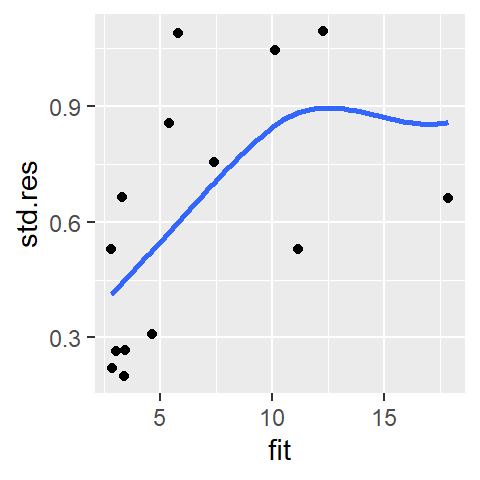
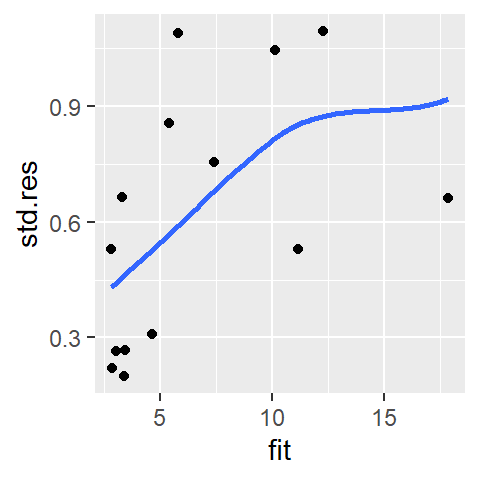
small edits

Changed region(s): [[0.375, 0.1875, 0.9375, 0.4688], [0.2188, 0.5312, 0.3125, 0.625], [0.3438, 0.4688, 0.375, 0.5]]

diff --git a/docs/bivariate.html b/docs/bivariate.html
@@ -606,7 +606,7 @@ y = 2.87 - 0.012 x + 0.000839 x^2
 <p>Non-parametric fit applies to the family of fitting strategies that <em>do not</em> impose a structure on the data. Instead, they are designed to let the dataset reveal its inherent structure. One explored in this course is the <em>loess</em> fit.</p>
 <section id="loess" class="level4" data-number="24.2.2.1">
 <h4 data-number="24.2.2.1" class="anchored" data-anchor-id="loess"><span class="header-section-number">24.2.2.1</span> Loess</h4>
-<p>A flexible curve fitting option is the <strong>loess</strong> curve (short for <strong>lo</strong>cal regr<strong>ess</strong>ion; also known as the <em>local weighted regression</em>). Unlike the parametric approach to fitting a curve, the loess does <strong>not</strong> impose a structure on the data. The loess curve fits small segments of a regression lines across the range of x-values, then links the mid-points of these regression lines to generate the <em>smooth</em> curve. The range of x-values that contribute to each localized regression lines is defined by the <span class="math inline">\(\alpha\)</span> parameter which usually ranges from 0.2 to 1. The larger the <span class="math inline">\(\alpha\)</span> value, the smoother the curve. The other parameter that defines a loess curve is <span class="math inline">\(\lambda\)</span>: it defines the polynomial order of the localized regression line. This is usually set to 1 (though <code>ggplot2</code>’s implementation of the loess defaults to a 2<sup>nd</sup> order polynomial).</p>
+<p>A flexible curve fitting option is the <strong>loess</strong> curve (short for <strong>lo</strong>cal regr<strong>ess</strong>ion; also known as the <em>local weighted regression</em>). Unlike the parametric approach to fitting a curve, the loess does <strong>not</strong> impose a structure on the data. The loess curve fits small segments of a regression lines across the range of x-values, then links the mid-points of these regression lines to generate the <em>smooth</em> curve. The range of x-values that contribute to each localized regression lines is defined by the <strong>span</strong> parameter, <span class="math inline">\(\alpha\)</span>, which usually ranges from 0.2 to 1 (but, it can be greater than 1 for smaller datasets). The larger the <span class="math inline">\(\alpha\)</span> value, the smoother the curve. The other parameter that defines a loess curve is <span class="math inline">\(\lambda\)</span>: it defines the <strong>polynomial order</strong> of the localized regression line. This is usually set to 1 (though <code>ggplot2</code>’s implementation of the loess defaults to a 2<sup>nd</sup> order polynomial).</p>
 </section>
 <section id="how-a-loess-is-constructed" class="level4" data-number="24.2.2.2">
 <h4 data-number="24.2.2.2" class="anchored" data-anchor-id="how-a-loess-is-constructed"><span class="header-section-number">24.2.2.2</span> How a loess is constructed</h4>
@@ -703,7 +703,7 @@ y = 2.87 - 0.012 x + 0.000839 x^2
 <p><img src="bivariate_files/figure-html/unnamed-chunk-21-1.png" class="img-fluid" width="240"></p>
 </div>
 </div>
-<p>We are interested in identifying any pattern in the residuals. If the model does a good job in fitting the data, the points should be uniformly distributed across the plot and the loess fit should approximate a horizontal line. With the linear model <code>M</code>, we observe a convex pattern in the residuals suggesting that the linear model is not a good fit. We say that the residuals show <em>dependence</em> on the x values.</p>
+<p>We are interested in identifying any pattern in the residuals. <strong>If the model does a good job in fitting the data, the points should be uniformly distributed across the plot</strong> and the loess fit should approximate a horizontal line. With the linear model <code>M</code>, we observe a convex pattern in the residuals suggesting that the linear model is not a good fit. We say that the residuals show <em>dependence</em> on the x values.</p>
 <p>Next, we’ll look at the residuals from the second order polynomial model <code>M2</code>.</p>
 <div class="cell" data-small.mar="true" data-hash="bivariate_cache/html/unnamed-chunk-22_fb96e1aa15975b174d62d20b9081d5bb">
 <div class="sourceCode cell-code" id="cb18"><pre class="sourceCode r code-with-copy"><code class="sourceCode r"><span id="cb18-1"><a href="#cb18-1" aria-hidden="true" tabindex="-1"></a>df<span class="sc">$</span>residuals2 <span class="ot">&lt;-</span> <span class="fu">residuals</span>(M2)</span>
@@ -735,7 +735,7 @@ Y = a + bx + \varepsilon
 </section>
 <section id="spread-location-plot" class="level3" data-number="24.3.2">
 <h3 data-number="24.3.2" class="anchored" data-anchor-id="spread-location-plot"><span class="header-section-number">24.3.2</span> Spread-location plot</h3>
-<p>The <code>M2</code> and <code>lo</code> models do a good job in eliminating any dependence between residual and x-value. Next, we will check that the residuals do not show a dependence with <em>fitted</em> y-values. This is analogous to univariate analysis where we checked if residuals increased or decreased with increasing medians across categories. Here we will compare residuals to the fitted <code>cp.ratio</code> values (for a univariate analogy, think of the fitted line as representing a <em>level</em> across different segments along the x-axis). We’ll generate a spread-level plot of model <code>M2</code>’s residuals (note that in the realm of regression analysis, such plot is often referred to as a <strong>scale-location</strong> plot). We’ll also add a loess curve to help visualize any patterns in the plot.</p>
+<p>The <code>M2</code> and <code>lo</code> models do a good job in eliminating any dependence between residual and x-value. Next, we will check that <strong>the residuals do not show a dependence with <em>fitted</em> y-values</strong>. This is analogous to univariate analysis where we checked if residuals increased or decreased with increasing medians across categories. Here we will compare residuals to the fitted <code>cp.ratio</code> values (for a univariate analogy, think of the fitted line as representing a <em>level</em> across different segments along the x-axis). We’ll generate a spread-level plot of model <code>M2</code>’s residuals (note that in the realm of regression analysis, such plot is often referred to as a <strong>scale-location</strong> plot). We’ll also add a loess curve to help visualize any patterns in the plot.</p>
 <div class="cell" data-small.mar="true" data-hash="bivariate_cache/html/unnamed-chunk-24_beb1abcfc562cfc3cb631cc257e96e5b">
 <div class="sourceCode cell-code" id="cb20"><pre class="sourceCode r code-with-copy"><code class="sourceCode r"><span id="cb20-1"><a href="#cb20-1" aria-hidden="true" tabindex="-1"></a>sl2 <span class="ot">&lt;-</span> <span class="fu">data.frame</span>( <span class="at">std.res =</span> <span class="fu">sqrt</span>(<span class="fu">abs</span>(<span class="fu">residuals</span>(M2))), </span>
 <span id="cb20-2"><a href="#cb20-2" aria-hidden="true" tabindex="-1"></a>                   <span class="at">fit     =</span> <span class="fu">predict</span>(M2))</span>
@@ -747,10 +747,10 @@ Y = a + bx + \varepsilon
 <p><img src="bivariate_files/figure-html/unnamed-chunk-24-1.png" class="img-fluid" width="240"></p>
 </div>
 </div>
-<p>The function <code>predict()</code> extracts the y-values from the fitted model <code>M2</code> and is plotted along the x-axis. It’s clear from this plot that the residuals are not homogeneous; they increase as a function of increasing <em>fitted</em> CP ratio. The “bend” observed in the loess curve is most likely due to a single point at the far (right) end of the fitted range. Given that we have a small batch of numbers, a loess can be easily influenced by an outlier. We may want to increase the loess span.</p>
-<div class="cell" data-small.mar="true" data-hash="bivariate_cache/html/unnamed-chunk-25_015ed87426b2e1459bdf2eaf4001adcd">
+<p>The function <code>predict()</code> extracts the y-values from the fitted model <code>M2</code> and is plotted along the x-axis. It’s clear from this plot that the residuals are not homogeneous; they increase as a function of increasing <em>fitted</em> CP ratio. The “bend” observed in the loess curve is most likely due to a single point at the far (right) end of the fitted range. Given that we have a small batch of numbers, a loess can be easily influenced by an outlier. We may therefore want to increase the loess span by setting <code>span = 2</code>.</p>
+<div class="cell" data-small.mar="true" data-hash="bivariate_cache/html/unnamed-chunk-25_580c4e09e0751ca71793d95540cf5875">
 <div class="sourceCode cell-code" id="cb21"><pre class="sourceCode r code-with-copy"><code class="sourceCode r"><span id="cb21-1"><a href="#cb21-1" aria-hidden="true" tabindex="-1"></a><span class="fu">ggplot</span>(sl2, <span class="fu">aes</span>(<span class="at">x =</span> fit, <span class="at">y =</span> std.res)) <span class="sc">+</span> <span class="fu">geom_point</span>() <span class="sc">+</span></span>
-<span id="cb21-2"><a href="#cb21-2" aria-hidden="true" tabindex="-1"></a>              <span class="fu">stat_smooth</span>(<span class="at">method =</span> <span class="st">"loess"</span>, <span class="at">se =</span> <span class="cn">FALSE</span>, <span class="at">span =</span> <span class="fl">1.5</span>, </span>
+<span id="cb21-2"><a href="#cb21-2" aria-hidden="true" tabindex="-1"></a>              <span class="fu">stat_smooth</span>(<span class="at">method =</span> <span class="st">"loess"</span>, <span class="at">se =</span> <span class="cn">FALSE</span>, <span class="at">span =</span> <span class="dv">2</span>, </span>
 <span id="cb21-3"><a href="#cb21-3" aria-hidden="true" tabindex="-1"></a>                          <span class="at">method.args =</span> <span class="fu">list</span>(<span class="at">degree =</span> <span class="dv">1</span>) )</span></code><button title="Copy to Clipboard" class="code-copy-button"><i class="bi"></i></button></pre></div>
 <div class="cell-output-display">
 <p><img src="bivariate_files/figure-html/unnamed-chunk-25-1.png" class="img-fluid" width="240"></p>
